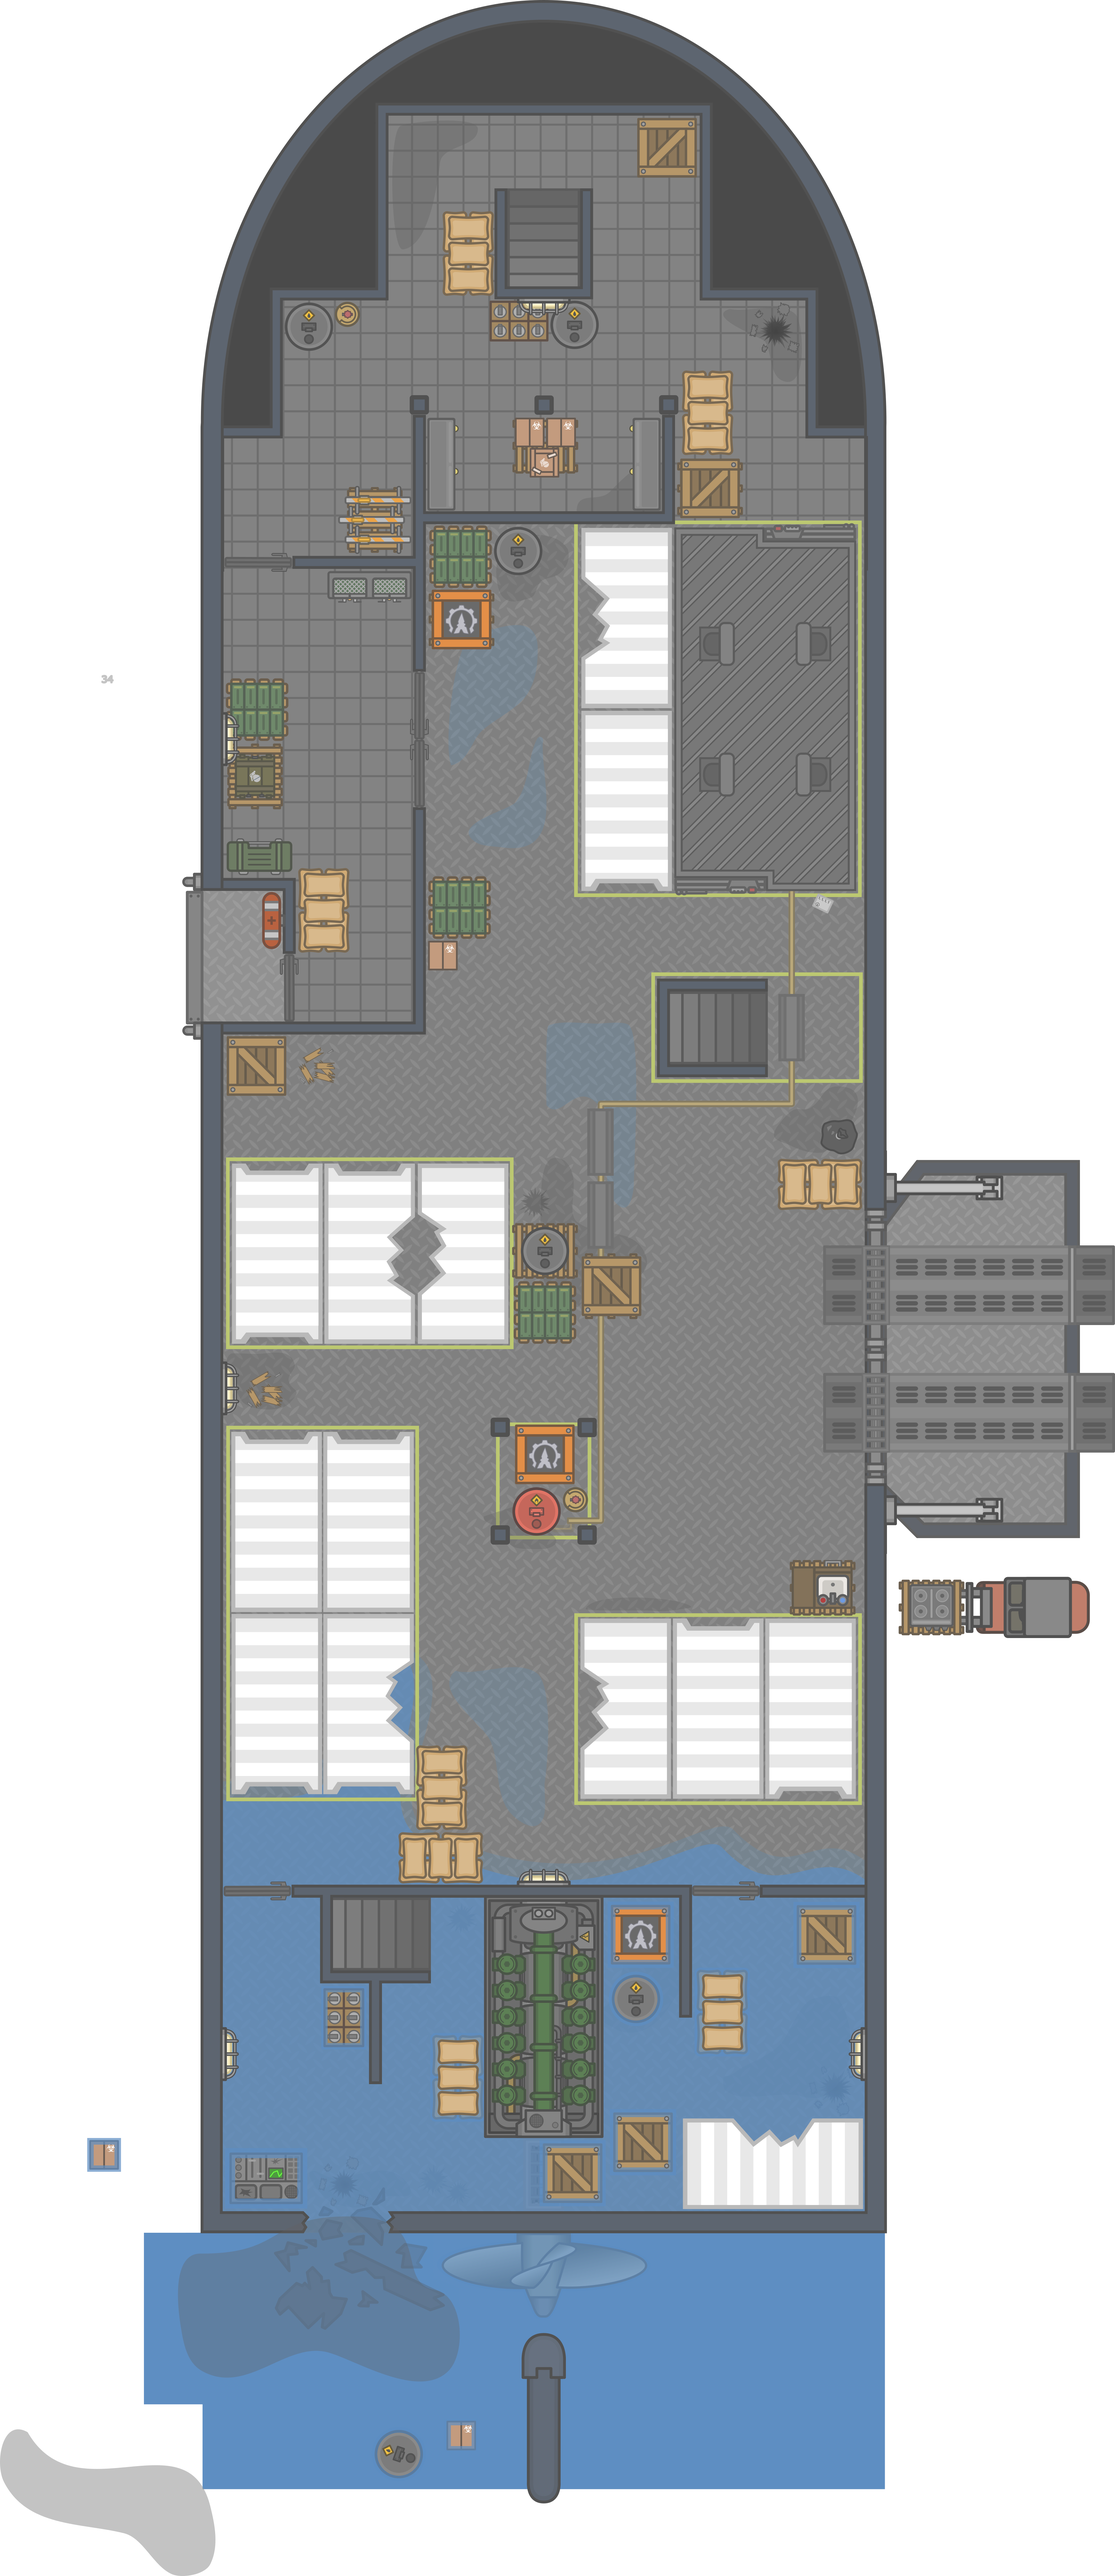
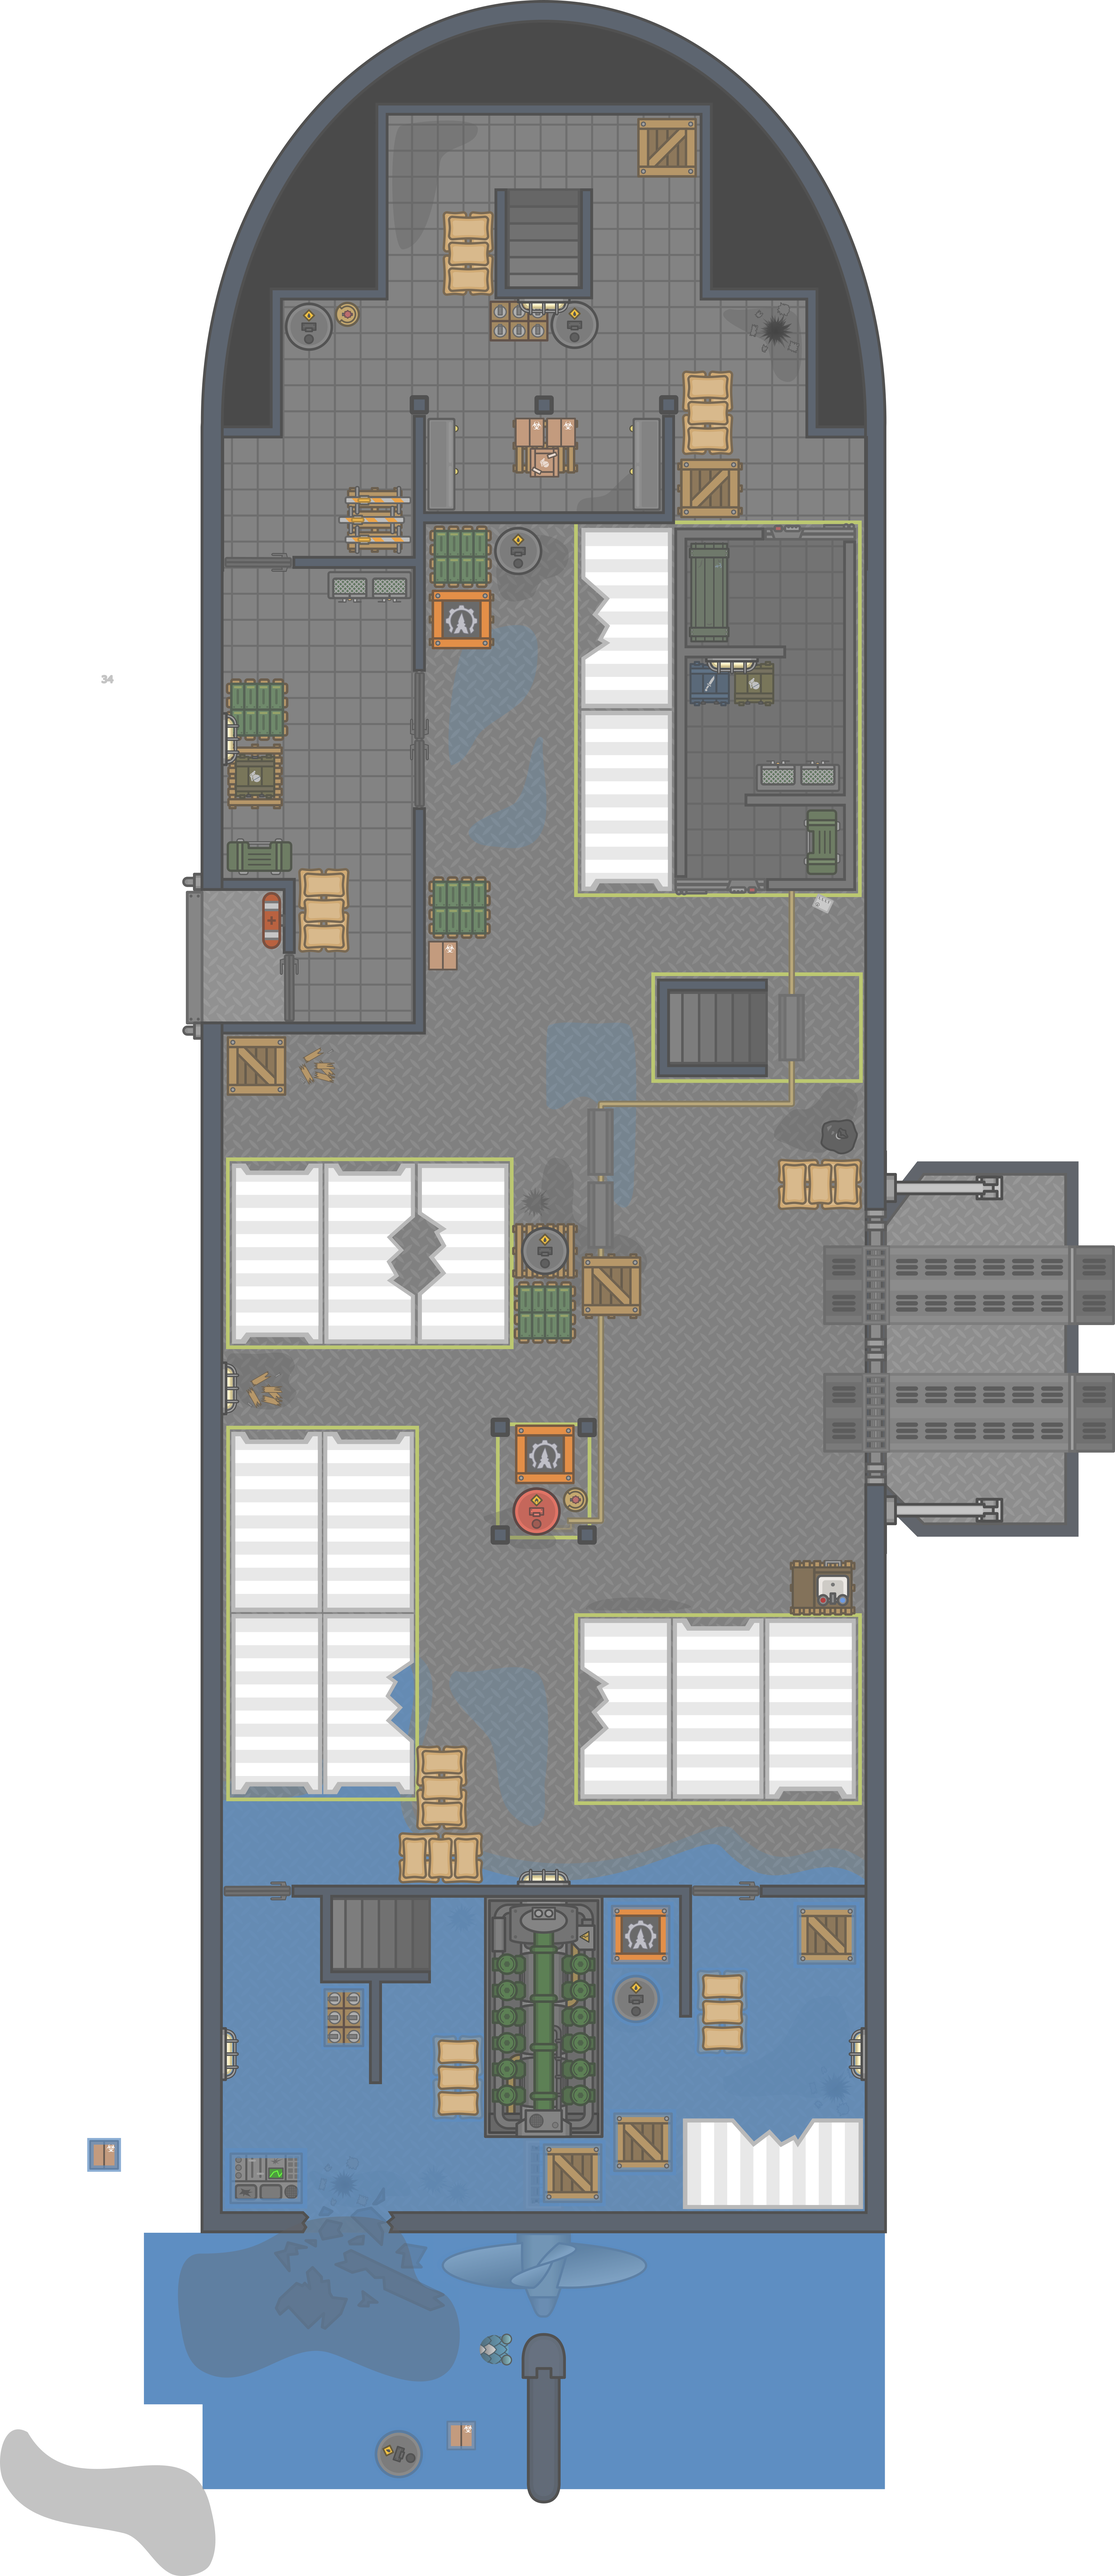
more things

Changed region(s): [[0.5927, 0.1869, 0.7799, 0.3427], [0.8111, 0.592, 0.9983, 0.6543], [0.4367, 0.9035, 0.4679, 0.9347]]

diff --git a/common/src/definitions/buildings.ts b/common/src/definitions/buildings.ts
@@ -3937,8 +3937,51 @@ export const Buildings = new ObjectDefinitions<BuildingDefinition>([
             RectangleHitbox.fromRect(2.01, 28.85, Vec.create(-27.17, -167.6)),
             RectangleHitbox.fromRect(16.5, 2, Vec.create(30.32, -154.2)),
             RectangleHitbox.fromRect(2.08, 22.75, Vec.create(39.52, -143.82)),
-            RectangleHitbox.fromRect(11.03, 2.05, Vec.create(43.99, -132.79))
-            // TODO: middle stair, vault walls + front circle "hack"
+            RectangleHitbox.fromRect(11.03, 2.05, Vec.create(43.99, -132.79)),
+            RectangleHitbox.fromRect(16.86, 2.05, Vec.create(24.22, -46.97)),
+            RectangleHitbox.fromRect(16.86, 2.05, Vec.create(24.22, -33.71)),
+            RectangleHitbox.fromRect(2.04, 15.36, Vec.create(16.47, -40.33)),
+
+            // vault
+            RectangleHitbox.fromRect(13.99, 2.02, Vec.create(39.39, -62.58)),
+            RectangleHitbox.fromRect(1.98, 53.64, Vec.create(45.35, -89.15)),
+            RectangleHitbox.fromRect(1.98, 53.64, Vec.create(19.15, -90.42)),
+            RectangleHitbox.fromRect(15.65, 2.02, Vec.create(36.84, -75.7)),
+            RectangleHitbox.fromRect(13.99, 2.02, Vec.create(25.12, -116.96)),
+            RectangleHitbox.fromRect(15.65, 2.02, Vec.create(27.68, -98.66)),
+
+            new CircleHitbox(5, Vec.create(-50.17, -138.59)),
+            new CircleHitbox(7.68, Vec.create(-3.57, -191.99)),
+            new CircleHitbox(4.8, Vec.create(-46.95, -157.33)),
+            new CircleHitbox(4.83, Vec.create(-48.16, -153.03)),
+            new CircleHitbox(4.83, Vec.create(-45.81, -160.41)),
+            new CircleHitbox(4.83, Vec.create(-43.33, -165.9)),
+            new CircleHitbox(8.72, Vec.create(-36.74, -169.78)),
+            new CircleHitbox(4.83, Vec.create(-33.98, -179.79)),
+            new CircleHitbox(4.04, Vec.create(-31.36, -183.65)),
+            new CircleHitbox(4.36, Vec.create(46.52, -137.83)),
+            new CircleHitbox(3.91, Vec.create(25.04, -185.43)),
+            new CircleHitbox(5.95, Vec.create(16.62, -188.88)),
+            new CircleHitbox(5.95, Vec.create(-18.73, -189.96)),
+            new CircleHitbox(5.95, Vec.create(-10.97, -192.77)),
+            new CircleHitbox(5.95, Vec.create(7.72, -192.56)),
+            new CircleHitbox(3.91, Vec.create(-24.84, -188.84)),
+            new CircleHitbox(3.91, Vec.create(-29.12, -185.58)),
+            new CircleHitbox(5.74, Vec.create(29.32, -178.85)),
+            new CircleHitbox(9.67, Vec.create(33.86, -165.43)),
+            new CircleHitbox(4.36, Vec.create(43.7, -155.59)),
+            new CircleHitbox(4.36, Vec.create(45.17, -149.82)),
+            new CircleHitbox(4.36, Vec.create(46.07, -143.94)),
+            new CircleHitbox(4.5, Vec.create(41.87, -160.06)),
+            new CircleHitbox(4.5, Vec.create(34.49, -174.32)),
+            new CircleHitbox(4.5, Vec.create(2.73, -195.05)),
+            new CircleHitbox(4.5, Vec.create(21.76, -187.46)),
+            new CircleHitbox(4.5, Vec.create(-36.94, -176.71)),
+            new CircleHitbox(4.5, Vec.create(-7.84, -194.9)),
+            new CircleHitbox(4.5, Vec.create(-15.28, -193.02)),
+            new CircleHitbox(4.5, Vec.create(13.28, -192.19)),
+            new CircleHitbox(5.25, Vec.create(-49.42, -143.72)),
+            new CircleHitbox(5.25, Vec.create(-48.74, -148.55))
         ),
         spawnHitbox: RectangleHitbox.fromRect(180, 400, Vec.create(-1.5, -1.8)),
         floors: [
@@ -3954,17 +3997,13 @@ export const Buildings = new ObjectDefinitions<BuildingDefinition>([
                     RectangleHitbox.fromRect(45.17, 12.38, Vec.create(63.86, 19.27)),
                     RectangleHitbox.fromRect(45.17, 12.38, Vec.create(64.01, -0.29))
                 )
-            },
-            {
-                type: FloorNames.Water,
-                hitbox: RectangleHitbox.fromRect(101.81, 53.3, Vec.create(-1.96, 119.35))
             }
+            // { - BROKEN
+            //     type: FloorNames.Water,
+            //     hitbox: RectangleHitbox.fromRect(101.81, 53.3, Vec.create(-1.96, 119.35))
+            // }
         ],
         floorImages: [
-            {
-                key: "cargo_ship_bottom_floor_alpha",
-                position: Vec.create(0, 0)
-            },
             {
                 key: "cargo_ship_floor_bottom_1",
                 position: Vec.create(-1.8, 60.25)
@@ -3978,7 +4017,101 @@ export const Buildings = new ObjectDefinitions<BuildingDefinition>([
                 key: "cargo_ship_floor_ramp",
                 position: Vec.create(66.85, 9.5),
                 scale: Vec.create(2, 2)
+            },
+            { key: "regular_crate_residue", position: Vec.create(-37.26, -34.51), rotation: Math.PI / 2 },
+            { key: "regular_crate_residue", position: Vec.create(-45.34, 15.75), rotation: Math.PI / 2 },
+            { key: "barrel_residue", position: Vec.create(33.73, -148.61) },
+            {
+                key: "cargo_ship_bottom_floor_alpha",
+                position: Vec.create(0, 0)
             }
+        ],
+        obstacles: [
+            { idString: "life_preserver", position: Vec.create(-44.28, -57.06), rotation: 0 },
+            { idString: "trash_bag", position: Vec.create(43.68, -23.44) },
+
+            { idString: "gun_locker", position: Vec.create(-29.26, -108.79), rotation: 0 },
+
+            { idString: "gun_case", position: Vec.create(-46.33, -66.86), rotation: 2 },
+
+            { idString: "cabinet", position: Vec.create(-17.76, -127.85), rotation: 1 },
+            { idString: "cabinet", position: Vec.create(13.56, -127.85), rotation: 3 },
+
+            { idString: "box", position: Vec.create(-17.76, -51.58) },
+            { idString: "box", position: Vec.create(-4.34, -132.74) },
+            { idString: "box", position: Vec.create(0.55, -132.81) },
+            { idString: "grenade_box", position: Vec.create(-1.93, -128) },
+
+            { idString: "metal_door", position: Vec.create(-21.4, -80.05), rotation: 1 },
+            { idString: "metal_door", position: Vec.create(-21.48, -90.05), rotation: 3 },
+            { idString: "metal_door", position: Vec.create(26.45, 93.5), rotation: 0 },
+            { idString: "metal_door", position: Vec.create(-46.35, 93.5), rotation: 0 },
+            { idString: "metal_door", position: Vec.create(-41.58, -46.75), rotation: 1 },
+            { idString: "metal_door", position: Vec.create(-46.16, -112.54), rotation: 0 },
+
+            { idString: "barrel", position: Vec.create(-6.05, -114.3) },
+            { idString: "barrel", position: Vec.create(-38.55, -149.07) },
+            { idString: "barrel", position: Vec.create(2.65, -149.35) },
+            { idString: "barrel", position: Vec.create(-1.89, -5.69) },
+            { idString: "barrel", position: Vec.create(12.18, 110.37), waterOverlay: true },
+
+            { idString: "propane_tank", position: Vec.create(-32.55, -151.05) },
+            { idString: "propane_tank", position: Vec.create(2.73, 32.85) },
+
+            { idString: "regular_crate", position: Vec.create(8.42, -0.22) },
+            { idString: "regular_crate", position: Vec.create(-46.77, -34.5) },
+            { idString: "regular_crate", position: Vec.create(17.1, -176.84) },
+            { idString: "regular_crate", position: Vec.create(23.68, -124.04) },
+            { idString: "regular_crate", position: Vec.create(41.82, 100.39), waterOverlay: true },
+            { idString: "regular_crate", position: Vec.create(13.33, 132.54), waterOverlay: true },
+            { idString: "regular_crate", position: Vec.create(2.39, 137.28), waterOverlay: true },
+
+            { idString: "flint_crate", position: Vec.create(-14.86, -103.69) },
+            { idString: "flint_crate", position: Vec.create(-1.93, 25.84) },
+            { idString: "flint_crate", position: Vec.create(12.87, 100.28), waterOverlay: true },
+
+            { idString: "tear_gas_crate", position: Vec.create(-6, -149.92), rotation: 0 },
+            { idString: "tear_gas_crate", position: Vec.create(-33.17, 113.09), rotation: 1, waterOverlay: true },
+
+            { idString: "grenade_crate", position: Vec.create(-47, -79.33) },
+
+            { idString: "ammo_crate", position: Vec.create(-1.92, 3.78) },
+            { idString: "ammo_crate", position: Vec.create(-15.2, -58.96) },
+            { idString: "ammo_crate", position: Vec.create(-46.59, -89.67) },
+            { idString: "ammo_crate", position: Vec.create(-15.01, -113.52) },
+
+            { idString: "roadblock", position: Vec.create(-27.88, -122.26), rotation: 3 },
+            { idString: "roadblock", position: Vec.create(-28.97, -119.19), rotation: 3 },
+            { idString: "roadblock", position: Vec.create(-27.88, -116.21), rotation: 3 },
+
+            { idString: "pallet", position: Vec.create(-1.89, -5.69), rotation: 0 },
+            { idString: "pallet", position: Vec.create(8.42, -0.22), rotation: 0 },
+            { idString: "pallet", position: Vec.create(23.68, -124.04), rotation: 0 },
+            { idString: "pallet", position: Vec.create(-14.86, -103.69), rotation: 0 },
+            { idString: "pallet", position: Vec.create(-28.3, -119.15), rotation: 1 },
+            { idString: "pallet", position: Vec.create(41.21, 46.52), rotation: 0 },
+            { idString: "pallet", position: Vec.create(-47, -79.33), rotation: 1 },
+            { idString: "pallet", position: Vec.create(-1.84, -130.68), rotation: 0 },
+
+            { idString: "sink", position: Vec.create(41.21, 46.52), rotation: 2 },
+
+            { idString: "sandbags", position: Vec.create(40.83, -16.02), rotation: 0 },
+            { idString: "sandbags", position: Vec.create(-36.24, -58.52), rotation: 1 },
+            { idString: "sandbags", position: Vec.create(-13.81, -160.36), rotation: 1 },
+            { idString: "sandbags", position: Vec.create(23.38, -135.79), rotation: 1 },
+            { idString: "sandbags", position: Vec.create(-18.15, 88.38), rotation: 2 },
+            { idString: "sandbags", position: Vec.create(-17.94, 77.59), rotation: 3 },
+            { idString: "sandbags", position: Vec.create(25.65, 112.33), rotation: 1, waterOverlay: true },
+            { idString: "sandbags", position: Vec.create(-15.44, 122.39), rotation: 1, waterOverlay: true },
+
+            { idString: "super_barrel", position: Vec.create(-3.23, 34.68) },
+
+            // vault
+            { idString: "tango_crate", position: Vec.create(23.7, -107.96), rotation: 1 },
+            { idString: "melee_crate", position: Vec.create(23.67, -93.73) },
+            { idString: "grenade_crate", position: Vec.create(30.51, -93.73) },
+            { idString: "gun_locker", position: Vec.create(37.53, -79.28), rotation: 2 },
+            { idString: "gun_case", position: Vec.create(41.05, -69.07), rotation: 3 }
         ]
     },
     {

diff --git a/common/src/definitions/obstacles.ts b/common/src/definitions/obstacles.ts
@@ -32,6 +32,10 @@ type CommonObstacleDefinition = ObjectDefinition & {
     readonly rotationMode: RotationMode // for obstacles with a role, this cannot be RotationMode.Full
     readonly particleVariations?: number
     readonly zIndex?: ZIndexes
+    readonly waterOverlay?: {
+        readonly scaleX: number
+        readonly scaleY: number
+    }
 
     readonly graphics?: ReadonlyArray<{
         readonly color: number | `#${string}`
@@ -3862,7 +3866,11 @@ export const Obstacles = new ObjectDefinitions<ObstacleDefinition>(([
         indestructible: true,
         hitbox: RectangleHitbox.fromRect(13.1, 7.7),
         rotationMode: RotationMode.Limited,
-        winterVariations: 1
+        winterVariations: 1,
+        waterOverlay: {
+            scaleX: 2,
+            scaleY: 1
+        }
     },
     {
         idString: "smaller_sandbags",

diff --git a/client/src/scripts/objects/obstacle.ts b/client/src/scripts/objects/obstacle.ts
@@ -262,6 +262,11 @@ export class Obstacle extends GameObject.derive(ObjectCategory.Obstacle) {
                     .setTint(Game.mode.colors.water)
                     .setZIndex(getEffectiveZIndex(ZIndexes.BuildingsFloor, this.layer, Game.layer));
 
+                if (this.definition.waterOverlay !== undefined) { // TODO
+                    this.waterOverlaySprite.width = this.waterOverlaySprite.width * this.definition.waterOverlay.scaleX;
+                    this.waterOverlaySprite.height = this.waterOverlaySprite.height * this.definition.waterOverlay.scaleY;
+                }
+
                 this.container.addChild(this.waterOverlaySprite);
 
                 this.waterOverlaySpriteInitialized = true;

diff --git a/server/src/config.ts b/server/src/config.ts
@@ -2,6 +2,7 @@ import { TeamSize } from "@common/constants";
 import { type Maps } from "./data/maps";
 import { type Game } from "./game";
 import { type GamePlugin } from "./pluginManager";
+import { PlaceObjectPlugin } from "./defaultPlugins/placeObjectPlugin";
 
 export const Config = {
     host: "127.0.0.1",
@@ -20,7 +21,7 @@ export const Config = {
 
     tps: 40,
 
-    plugins: [], // place object plugin does not work with spawn modes (?)
+    plugins: [PlaceObjectPlugin], // place object plugin does not work with spawn modes (?)
 
     //  disableLobbyClearing: true,
 

diff --git a/server/src/defaultPlugins/placeObjectPlugin.ts b/server/src/defaultPlugins/placeObjectPlugin.ts
@@ -12,7 +12,7 @@ import { GamePlugin } from "../pluginManager";
  * Plugin to help place objects when developing buildings
  */
 export class PlaceObjectPlugin extends GamePlugin {
-    readonly obstacleToPlace: ReferenceTo<ObstacleDefinition> = "barrel";
+    readonly obstacleToPlace: ReferenceTo<ObstacleDefinition> = "tear_gas_crate";
     private readonly _playerToObstacle = new ExtendedMap<Player, Obstacle>();
 
     protected override initListeners(): void {
